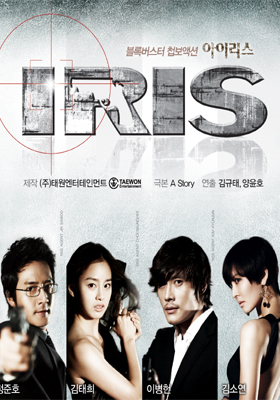
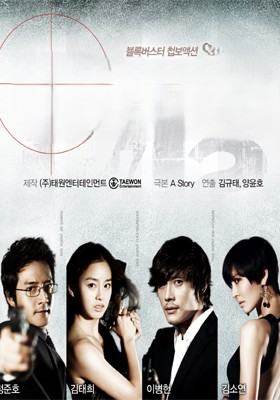
Feat: 검색엔진 색인 차단 + 모리 클릭 버그 수정
- index.html: noindex/noimageindex 메타태그 추가 (저작권 이미지 노출 방지)
- robots.txt: 검색엔진 전면 차단 (발표용 단기 배포 대비)
- Layout.jsx/global.css: 걸어다니는 모리가 페이지 빈 공간 클릭에 막히던 버그 수정
- dramaQ 이미지 2장 교체(아이리스, 전원일기)

Changed region(s): [[0.2286, 0.09, 0.9714, 0.36], [0.0571, 0.12, 0.2, 0.36]]

diff --git a/frontend/src/styles/global.css b/frontend/src/styles/global.css
@@ -230,6 +230,18 @@ button {
   transition: opacity 0.4s ease;
 }
 
+/* 걸어다니는 모리는 페이지(.page, z-index:1)보다 아래 레이어라, 페이지 래퍼가
+   화면 전체를 덮으면 빈 공간의 클릭까지 가로채 모리를 누를 수 없다.
+   → 모리가 있는 화면에서만 페이지 래퍼의 빈 공간을 클릭 통과시키고,
+     실제 내용(창·푸터 등)은 그대로 클릭되게 되돌린다. */
+.layout__content--mori > .page {
+  pointer-events: none;
+}
+
+.layout__content--mori > .page > * {
+  pointer-events: auto;
+}
+
 /* onClick이 있을 때만 클릭 가능하게 (챗봇 여는 용도).
    z-index는 그대로 둔다 — 창 뒤로 지나가는 연출(z-index 0 < 창 1)을 그대로 유지하기 위함.
    창과 겹치는 순간엔 창이 클릭을 받는 게 시각적으로도 맞다. */

diff --git a/frontend/index.html b/frontend/index.html
@@ -3,6 +3,9 @@
   <head>
     <meta charset="UTF-8" />
     <meta name="viewport" content="width=device-width, initial-scale=1.0" />
+    <!-- 검색엔진 색인 차단 (저작권 이미지 노출 방지 · 발표용 단기 배포) -->
+    <meta name="robots" content="noindex, nofollow, noimageindex, noarchive" />
+    <meta name="googlebot" content="noindex, nofollow, noimageindex, noarchive" />
     <title>나이 맞혀봇 · 추억 놀이터</title>
   </head>
   <body>

diff --git a/frontend/src/components/Layout.jsx b/frontend/src/components/Layout.jsx
@@ -42,7 +42,9 @@ export default function Layout() {
         }`}
         style={mainStyle}
       >
-        <main className="layout__content">
+        <main
+          className={`layout__content${showMori ? " layout__content--mori" : ""}`}
+        >
           <MemoryBackdrop />
           {showMori && <MoriWanderer onClick={openChatbot} hint="나 만져봐 🐾" />}
           <Outlet />
